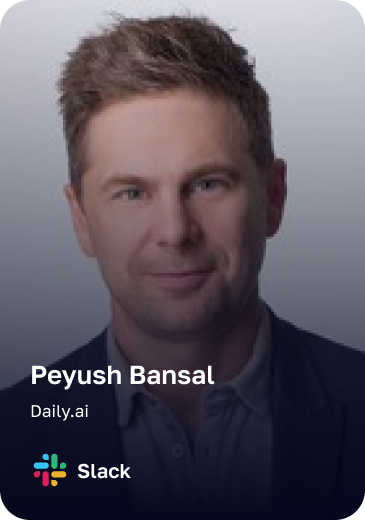
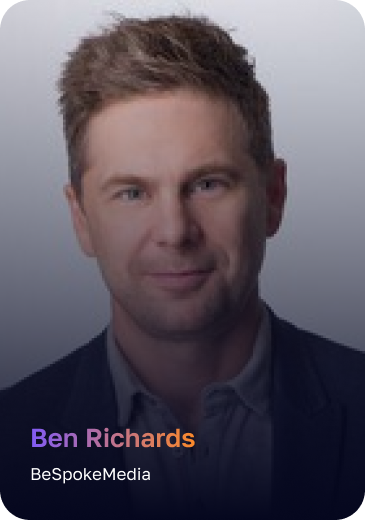
Added changes and pictures

Changed region(s): [[0.0603, 0.6769, 0.6027, 0.9538], [0.2411, 0.8, 0.5425, 0.8615]]

diff --git a/src/components/globals/faq.tsx b/src/components/globals/faq.tsx
@@ -45,28 +45,41 @@ export default function Faq() {
                 </Accordion>
                 <Accordion type="single" collapsible className='md:w-[900px] '>
                     <AccordionItem value="item-1">
-                        <AccordionTrigger>Do you offer any support after I purchase your services?</AccordionTrigger>
+                        <AccordionTrigger>What kind of ROI can I expect from this automation solution?</AccordionTrigger>
                         <AccordionContent>
-                            Yes, we provide onboarding assistance, ongoing support, and training resources to ensure you get the most out of our package.
-                            We believe in customer satisfaction and this is a reson we have been able to put our footprints all around the globe with our services.
+                        It is aimed at delivering tangible ROI by reducing operational costs, boosting productivity, and driving revenue growth.
                         </AccordionContent>
                     </AccordionItem>
                 </Accordion>
                 <Accordion type="single" collapsible className='md:w-[900px] '>
                     <AccordionItem value="item-1">
-                        <AccordionTrigger>Do you offer any support after I purchase your services?</AccordionTrigger>
+                        <AccordionTrigger>Can these automation solutions adapt to the changing needs of my business as it grows?</AccordionTrigger>
                         <AccordionContent>
-                            Yes, we provide onboarding assistance, ongoing support, and training resources to ensure you get the most out of our package.
-                            We believe in customer satisfaction and this is a reson we have been able to put our footprints all around the globe with our services.
+                        Absolutely! It is designed to scale with your business, accommodating growth and evolving requirements. Whether you are adding new products, expanding into new markets, or increasing your team size, our automation tools can flexibly adjust to meet your needs.
                         </AccordionContent>
                     </AccordionItem>
                 </Accordion>
                 <Accordion type="single" collapsible className='md:w-[900px] '>
                     <AccordionItem value="item-1">
-                        <AccordionTrigger>Do you offer any support after I purchase your services?</AccordionTrigger>
+                        <AccordionTrigger>Are these solutions easy to implement, and will they disrupt my current operations?</AccordionTrigger>
                         <AccordionContent>
-                            Yes, we provide onboarding assistance, ongoing support, and training resources to ensure you get the most out of our package.
-                            We believe in customer satisfaction and this is a reson we have been able to put our footprints all around the globe with our services.
+                        You will get a customized automation plan to seamlessly integrate the automation solutions into your existing workflows without causing disruptions. Our goal is to enhance efficiency, not create additional headaches.
+                        </AccordionContent>
+                    </AccordionItem>
+                </Accordion>
+                <Accordion type="single" collapsible className='md:w-[900px] '>
+                    <AccordionItem value="item-1">
+                        <AccordionTrigger>Is my data secure?</AccordionTrigger>
+                        <AccordionContent>
+                        Yes! Security is our top priority and we built Zapllo from the ground up to make sure your data is protected and secured.
+                        </AccordionContent>
+                    </AccordionItem>
+                </Accordion>
+                <Accordion type="single" collapsible className='md:w-[900px] '>
+                    <AccordionItem value="item-1">
+                        <AccordionTrigger>Do you have more questions ?</AccordionTrigger>
+                        <AccordionContent>
+                        Hit us with an email at contact@zapllo.com or write to us from our Contact Page and we will get back to you in no time.
                         </AccordionContent>
                     </AccordionItem>
                 </Accordion>

diff --git a/src/components/globals/testimonialscopy.tsx b/src/components/globals/testimonialscopy.tsx
@@ -6,7 +6,7 @@ export default function TestimonialsCopy() {
         <>
             <div className="radial-gradient md:flex gap-4 max-w-[1300px]">
                 <div className='p-4 max-w-[400px] w-full'>
-                    <img src='bald.png' className='' />
+                    <img src='Ben.png' className='' />
 
                 </div>
                 <div className='p-4 max-w-[650px] w-full'>
@@ -14,8 +14,8 @@ export default function TestimonialsCopy() {
                         <img src='star.png' className='' />
 
                     </div>
-                    <h1 className='mt-4 md:text-3xl  text-3xl mx-4 md:mx-0 font-semibold md:font-bold'>Helped TTA with Product Management and Internal Workflow</h1>
-                    <p className='text-sm mt-4 max-w-[300px] mx-4 md:mx-0 md:max-w-[700px]  w-full'>Our experience with Zapllo has been amazing so far. I highly recommend them to anyone who is facing issues in thier daily workflow and wants to automate or streamline it by any level. These guys are crazy when it comes to automating and integrating applications. I love how now my entire business and teamspace is organized and automated inside Notion</p>
+                    <h1 className='mt-4 md:text-3xl  text-3xl mx-4 md:mx-0 font-semibold md:font-bold'>How BeSpokeMedia saved hours daily on Content Creation</h1>
+                    <p className='text-sm mt-4 max-w-[300px] mx-4 md:mx-0 md:max-w-[700px]  w-full'>Zapllo has been one of the best companies we have partnered with so far. Their level of commitment and delivery is 10 on 10. Highly recommended. Deep and is team has built some crazy systems which is really cool and helping us a lot more than we have ever imagined.</p>
                     <div className='mt-8 md:justify-start  md:absolute md:flex'>
                         <LetsTalk />
 

diff --git a/src/components/globals/toppicks.tsx b/src/components/globals/toppicks.tsx
@@ -32,7 +32,7 @@ const content = [
             "",
         content: (
             <div className="h-full w-[100%] object-contain">
-                <img src="/picktools.png" />
+                <img src="/biz.png" />
             </div>
         ),
     },
